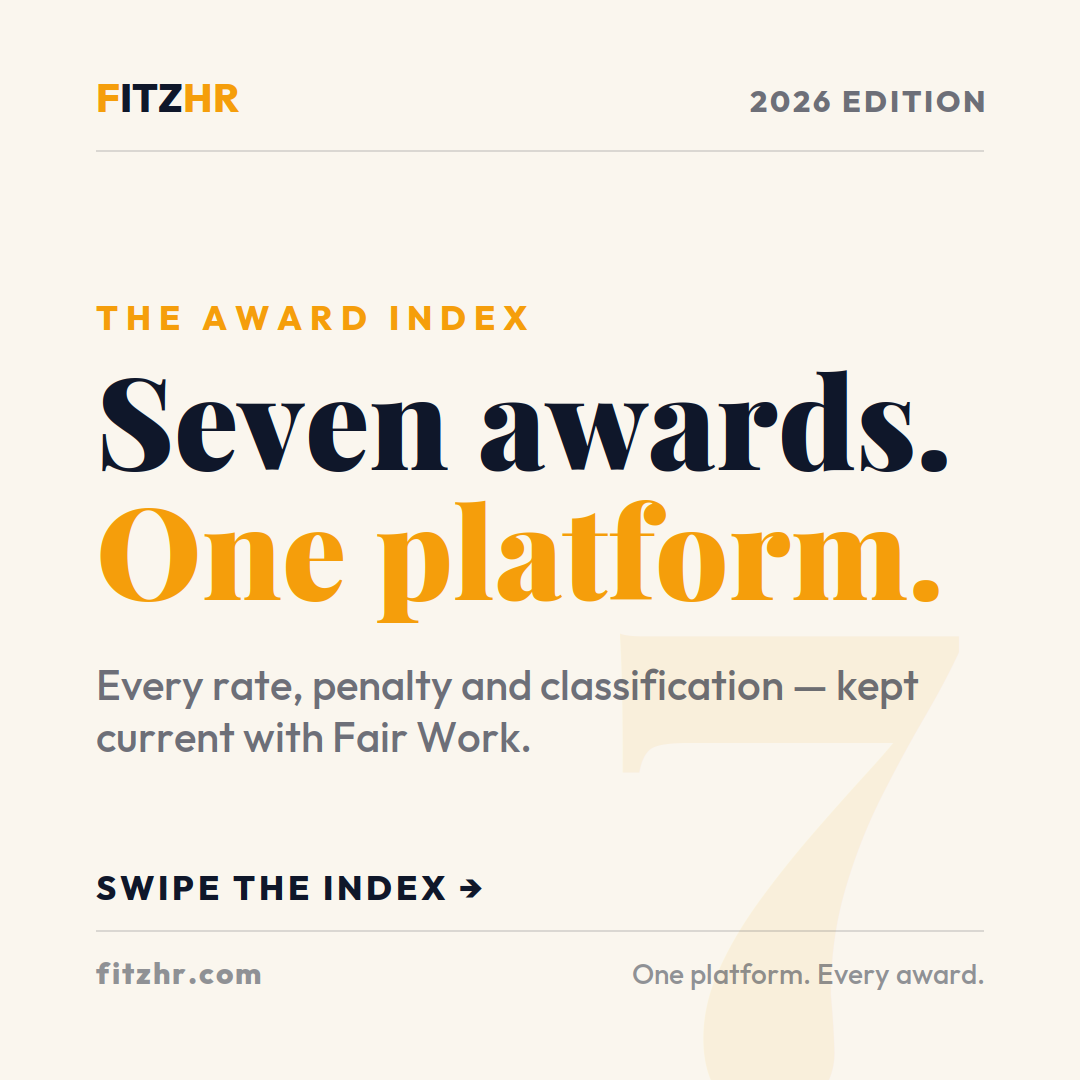
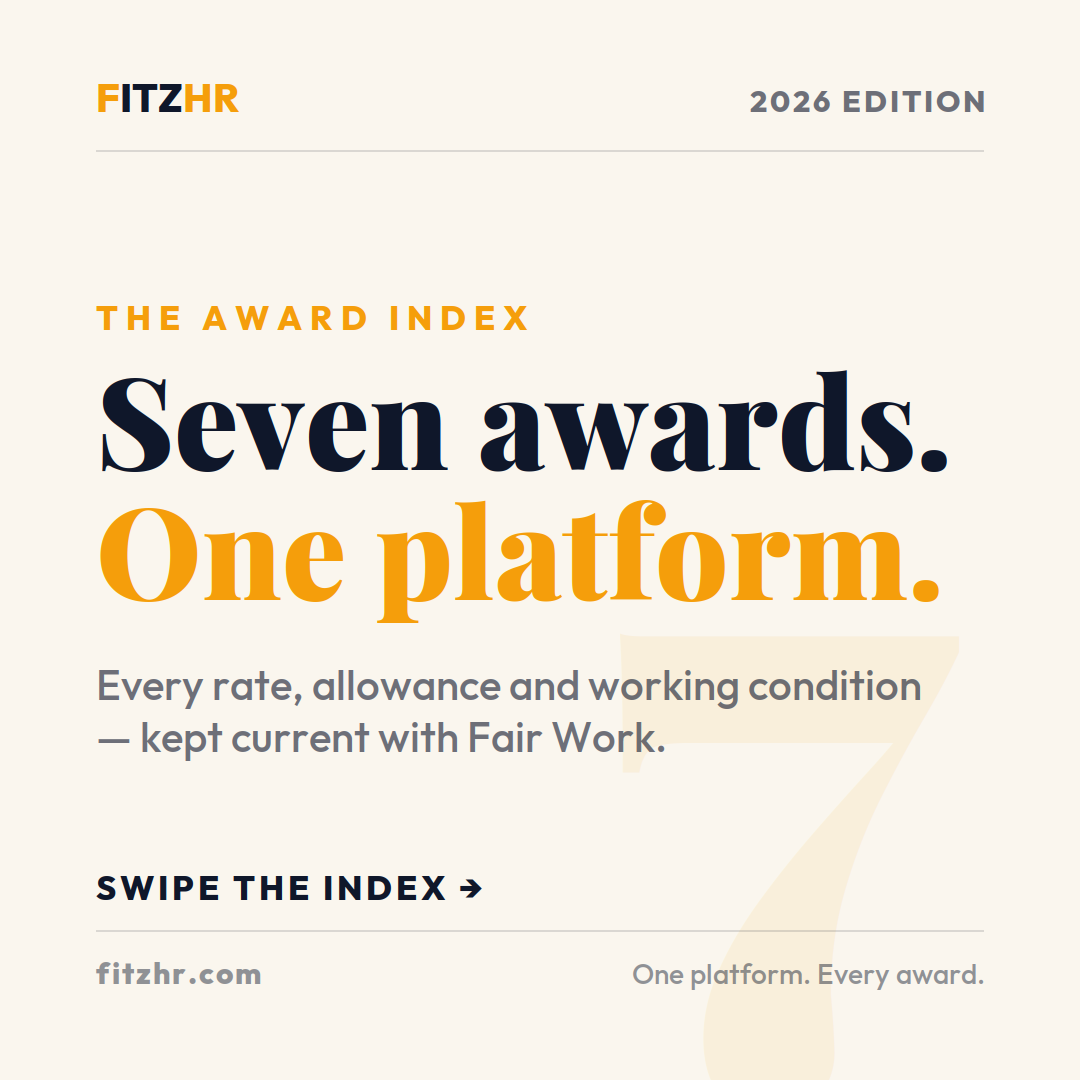
Reword cover: 'every rate, allowance and working condition'

Changed region(s): [[0.0917, 0.6111, 0.8556, 0.7028]]

diff --git a/scripts/build_award_index_carousel.py b/scripts/build_award_index_carousel.py
@@ -79,7 +79,7 @@ def cover():
             + f'<text x="{M}" y="470" class="pf" font-size="128" font-weight="900" fill="{INK}">Seven awards.</text>'
             + f'<text x="{M}" y="600" class="pf" font-size="128" font-weight="900" fill="{AMBER}">One platform.</text>'
             + "".join(f'<text x="{M}" y="{700+i*52}" class="bd" font-size="42" fill="{INK60}">{esc(l)}</text>'
-                      for i, l in enumerate(wrap("Every rate, penalty and classification — kept current with Fair Work.", ot(42), 860)))
+                      for i, l in enumerate(wrap("Every rate, allowance and working condition — kept current with Fair Work.", ot(42), 860)))
             + f'<text x="{M}" y="900" class="ti" font-size="34" font-weight="800" fill="{INK}" letter-spacing="4">SWIPE THE INDEX  →</text>'
             + footer())
     return shell(body)

diff --git a/scripts/build_award_index_reel.py b/scripts/build_award_index_reel.py
@@ -70,7 +70,7 @@ def cover():
              f'<text x="{MX}" y="660" class="pf" font-size="128" font-weight="900" fill="{INK}">Seven awards.</text>'
              f'<text x="{MX}" y="790" class="pf" font-size="128" font-weight="900" fill="{AMBER}">One platform.</text>')
     sub = "".join(f'<text x="{MX}" y="{900+i*56}" class="bd" font-size="44" fill="{INK60}">{esc(l)}</text>'
-                  for i, l in enumerate(wrap("Every rate, penalty and classification — kept current with Fair Work.", 860)))
+                  for i, l in enumerate(wrap("Every rate, allowance and working condition — kept current with Fair Work.", 860)))
     tag = f'<text x="{MX}" y="1480" class="ti" font-size="36" font-weight="800" fill="{INK}" letter-spacing="5">SWIPE THE INDEX  →</text>'
     return base, [(title, 0.15, 40), (sub, 0.5, 32), (tag, 0.8, 24)]
 